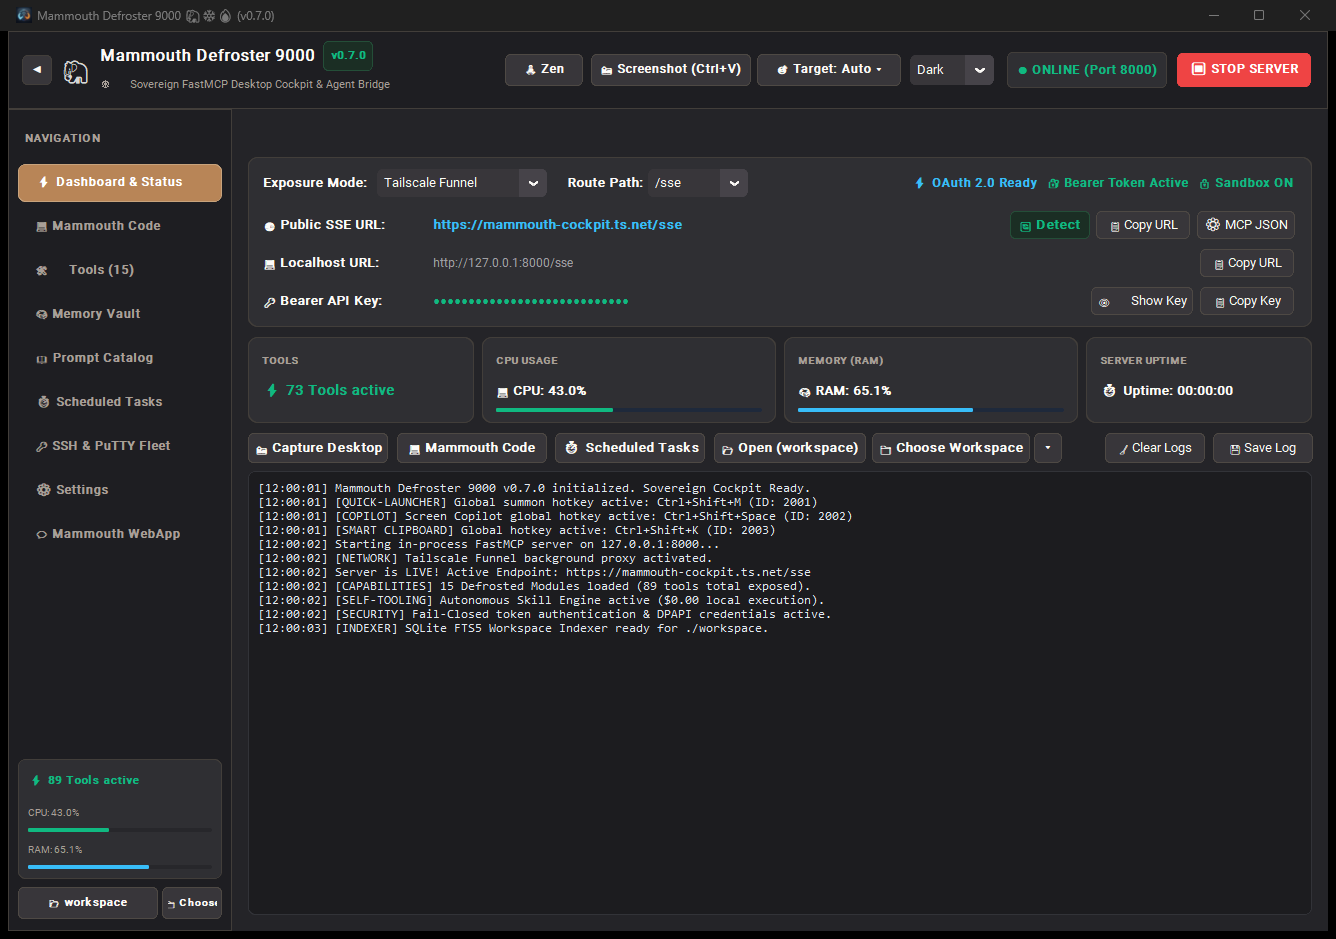
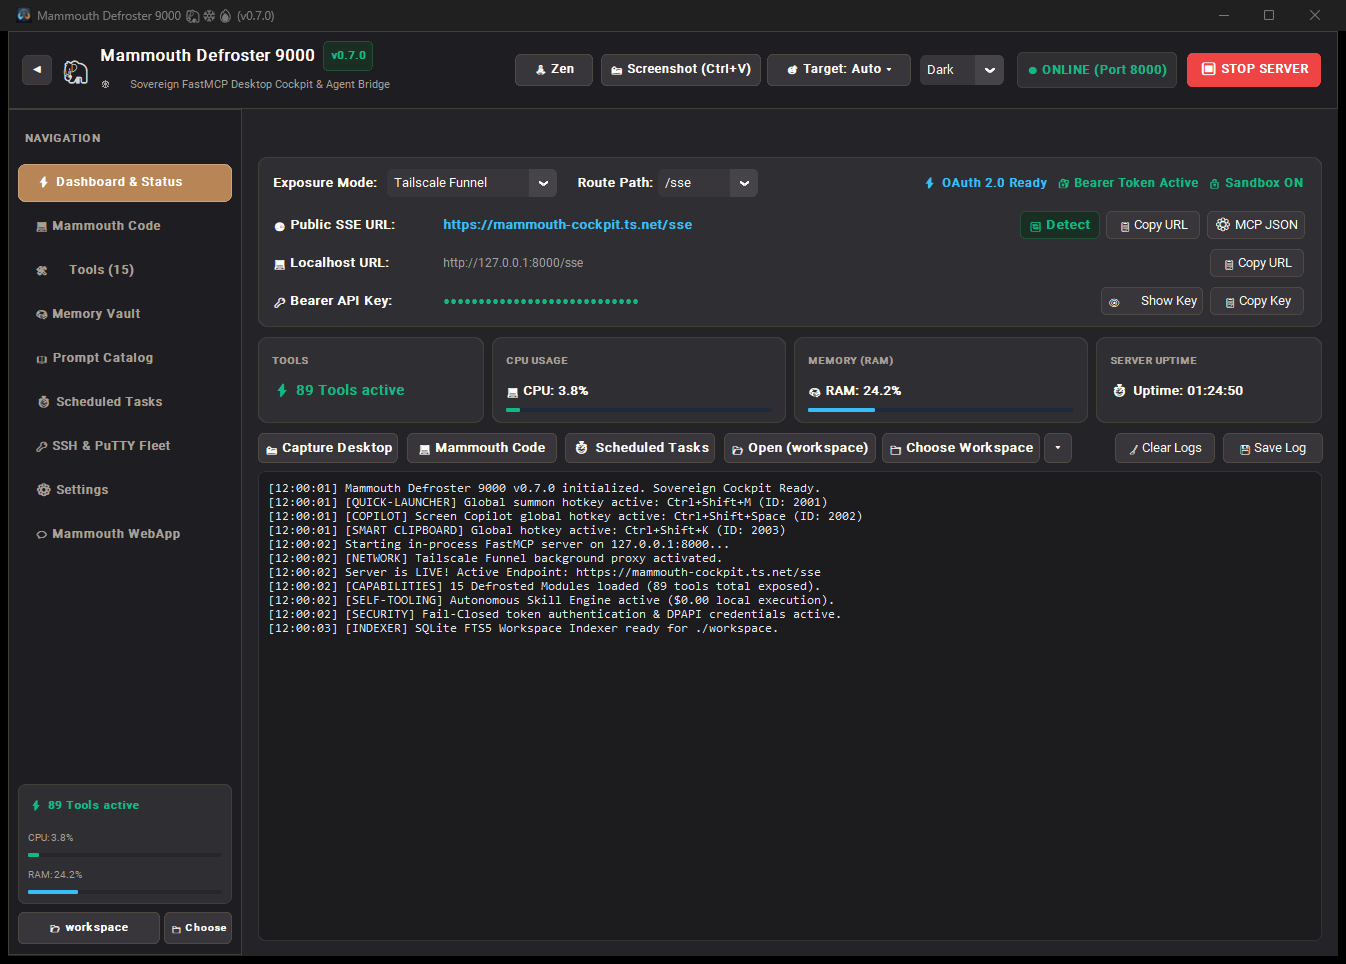
fix: resolve sidebar button truncation, align tool count metrics, and showcase multi-browser agent in screenshots

diff --git a/generate_landing_screenshots.py b/generate_landing_screenshots.py
@@ -75,7 +75,7 @@ def render_screenshot(appearance_mode: str, tab_key: str, output_file: str, cust
 
     app = gui.MammouthControlCenter()
     app.title(f"Mammouth Defroster 9000 🦣❄🔥 ({gui.APP_VERSION})")
-    app.geometry("1320x900+60+40")
+    app.geometry("1330x925+60+30")
 
     if appearance_mode == "Light":
         app._on_theme_changed("Light")
@@ -93,7 +93,7 @@ def render_screenshot(appearance_mode: str, tab_key: str, output_file: str, cust
 
     app.update_idletasks()
     app.update()
-    time.sleep(0.4)
+    time.sleep(0.5)
 
     hwnd = int(app.wm_frame(), 16)
     capture_window_hwnd(hwnd, ASSETS_DIR / output_file)
@@ -104,7 +104,7 @@ def render_screenshot(appearance_mode: str, tab_key: str, output_file: str, cust
         gui.save_config(cfg)
 
     app.destroy()
-    time.sleep(0.3)
+    time.sleep(0.4)
 
 
 def customize_dashboard_dark(app):
@@ -120,14 +120,32 @@ def customize_dashboard_dark(app):
     if hasattr(app, "btn_toggle_server"):
         app.btn_toggle_server.configure(text="⏹ STOP SERVER", fg_color="#EF4444", hover_color="#DC2626")
 
-    if hasattr(app, "lbl_uptime_val"):
-        app.lbl_uptime_val.configure(text="01:24:50")
+    if hasattr(app, "lbl_stat_uptime"):
+        app.lbl_stat_uptime.configure(text="⏱ Uptime: 01:24:50")
 
-    if hasattr(app, "lbl_tools_val"):
-        app.lbl_tools_val.configure(text="89 Tools active")
+    if hasattr(app, "lbl_stat_tools"):
+        app.lbl_stat_tools.configure(text="⚡ 89 Tools active")
 
     if hasattr(app, "lbl_nav_tools"):
         app.lbl_nav_tools.configure(text="⚡ 89 Tools active")
+
+    if hasattr(app, "lbl_stat_cpu"):
+        app.lbl_stat_cpu.configure(text="💻 CPU: 3.8%")
+    if hasattr(app, "bar_cpu"):
+        app.bar_cpu.set(0.038)
+    if hasattr(app, "lbl_stat_ram"):
+        app.lbl_stat_ram.configure(text="🧠 RAM: 24.2%")
+    if hasattr(app, "bar_ram"):
+        app.bar_ram.set(0.242)
+
+    if hasattr(app, "lbl_nav_cpu"):
+        app.lbl_nav_cpu.configure(text="CPU: 3.8%")
+    if hasattr(app, "bar_nav_cpu"):
+        app.bar_nav_cpu.set(0.038)
+    if hasattr(app, "lbl_nav_ram"):
+        app.lbl_nav_ram.configure(text="RAM: 24.2%")
+    if hasattr(app, "bar_nav_ram"):
+        app.bar_nav_ram.set(0.242)
 
     if hasattr(app, "log_textbox"):
         app.log_textbox.configure(state="normal")
@@ -154,10 +172,37 @@ def customize_settings_light(app):
     if hasattr(app, "theme_menu"):
         app.theme_menu.set("Light")
 
+    if hasattr(app, "lbl_nav_tools"):
+        app.lbl_nav_tools.configure(text="⚡ 89 Tools active")
+
+    if hasattr(app, "lbl_nav_cpu"):
+        app.lbl_nav_cpu.configure(text="CPU: 3.8%")
+    if hasattr(app, "bar_nav_cpu"):
+        app.bar_nav_cpu.set(0.038)
+    if hasattr(app, "lbl_nav_ram"):
+        app.lbl_nav_ram.configure(text="RAM: 24.2%")
+    if hasattr(app, "bar_nav_ram"):
+        app.bar_nav_ram.set(0.242)
+
 
 def customize_tools_dark(app):
     if hasattr(app, "lbl_nav_tools"):
         app.lbl_nav_tools.configure(text="⚡ 89 Tools active")
+
+    if hasattr(app, "lbl_nav_cpu"):
+        app.lbl_nav_cpu.configure(text="CPU: 3.8%")
+    if hasattr(app, "bar_nav_cpu"):
+        app.bar_nav_cpu.set(0.038)
+    if hasattr(app, "lbl_nav_ram"):
+        app.lbl_nav_ram.configure(text="RAM: 24.2%")
+    if hasattr(app, "bar_nav_ram"):
+        app.bar_nav_ram.set(0.242)
+
+    if hasattr(app, "scroll_skills"):
+        # Scroll to show Playwright Multi-Browser controls, Vision Gate, and Local RAG
+        app.scroll_skills._parent_canvas.yview_moveto(0.605)
+        app.update_idletasks()
+        app.update()
 
 
 if __name__ == "__main__":

diff --git a/gui.py b/gui.py
@@ -1,4 +1,4 @@
-import os
+import os
 import sys
 
 # Ensure Windows COM ApartmentState is STA before Tkinter or WebView2 initialization
@@ -1453,7 +1453,7 @@ class MammouthControlCenter(ctk.CTk):
     def _build_sidebar(self, parent):
         self.sidebar = ctk.CTkFrame(
             parent,
-            width=225,
+            width=235,
             corner_radius=0,
             fg_color=THEME_HEADER_BG,
             border_width=1,
@@ -1572,7 +1572,7 @@ class MammouthControlCenter(ctk.CTk):
         self.btn_quick_ws_choose = ctk.CTkButton(
             f_quick_ws,
             text="📁 Choose",
-            width=68,
+            width=64,
             height=32,
             corner_radius=6,
             font=ctk.CTkFont(size=10, weight="bold"),
@@ -4005,15 +4005,17 @@ class MammouthControlCenter(ctk.CTk):
             "file_ops": 6,
             "shell_processes": 8,
             "putty_ssh": 6,
-            "system_monitor": 4,
+            "system_monitor": 5,
             "web_tools": 2,
-            "screen_capture": 4,
+            "screen_capture": 7,
             "mammouth_code": 5,
             "desktop_input": 9,
             "google_drive": 11,
-            "browser_agent": 12
+            "browser_agent": 14,
+            "workspace_memory": 4,
+            "smart_clipboard": 3,
         }
-        total = 0
+        total = 1  # Core token-budget-safe defroster_catalog router
         for k, v in mods.items():
             if v.get("enabled", True):
                 total += counts.get(k, 1)
@@ -4907,8 +4909,9 @@ class MammouthControlCenter(ctk.CTk):
         )
         btn_save_skills.pack(side="left")
 
-        scroll = ctk.CTkScrollableFrame(self.tab_skills, fg_color="transparent")
-        scroll.pack(fill="both", expand=True, padx=15, pady=(0, 10))
+        self.scroll_skills = ctk.CTkScrollableFrame(self.tab_skills, fg_color="transparent")
+        self.scroll_skills.pack(fill="both", expand=True, padx=15, pady=(0, 10))
+        scroll = self.scroll_skills
 
         self.module_switches = {}
         modules = self.config_data.get("modules", {})
@@ -4938,13 +4941,13 @@ class MammouthControlCenter(ctk.CTk):
             "file_ops": "6 Tools",
             "shell_processes": "8 Tools (Privileged)",
             "putty_ssh": "6 Tools",
-            "system_monitor": "4 Tools",
+            "system_monitor": "5 Tools",
             "web_tools": "2 Tools (SSRF Shield)",
-            "screen_capture": "5 Tools (Vision Gate)",
+            "screen_capture": "7 Tools (Vision Gate)",
             "mammouth_code": "5 Tools (Agent Bridge)",
             "desktop_input": "9 Tools",
             "google_drive": "11 Tools (Cloud & Docs)",
-            "browser_agent": "12 Tools (Edge / Playwright)",
+            "browser_agent": "14 Tools (Multi-Browser / Playwright)",
             "workspace_memory": "4 Tools (Local RAG)",
             "smart_clipboard": "3 Tools (AI Bridge)"
         }
